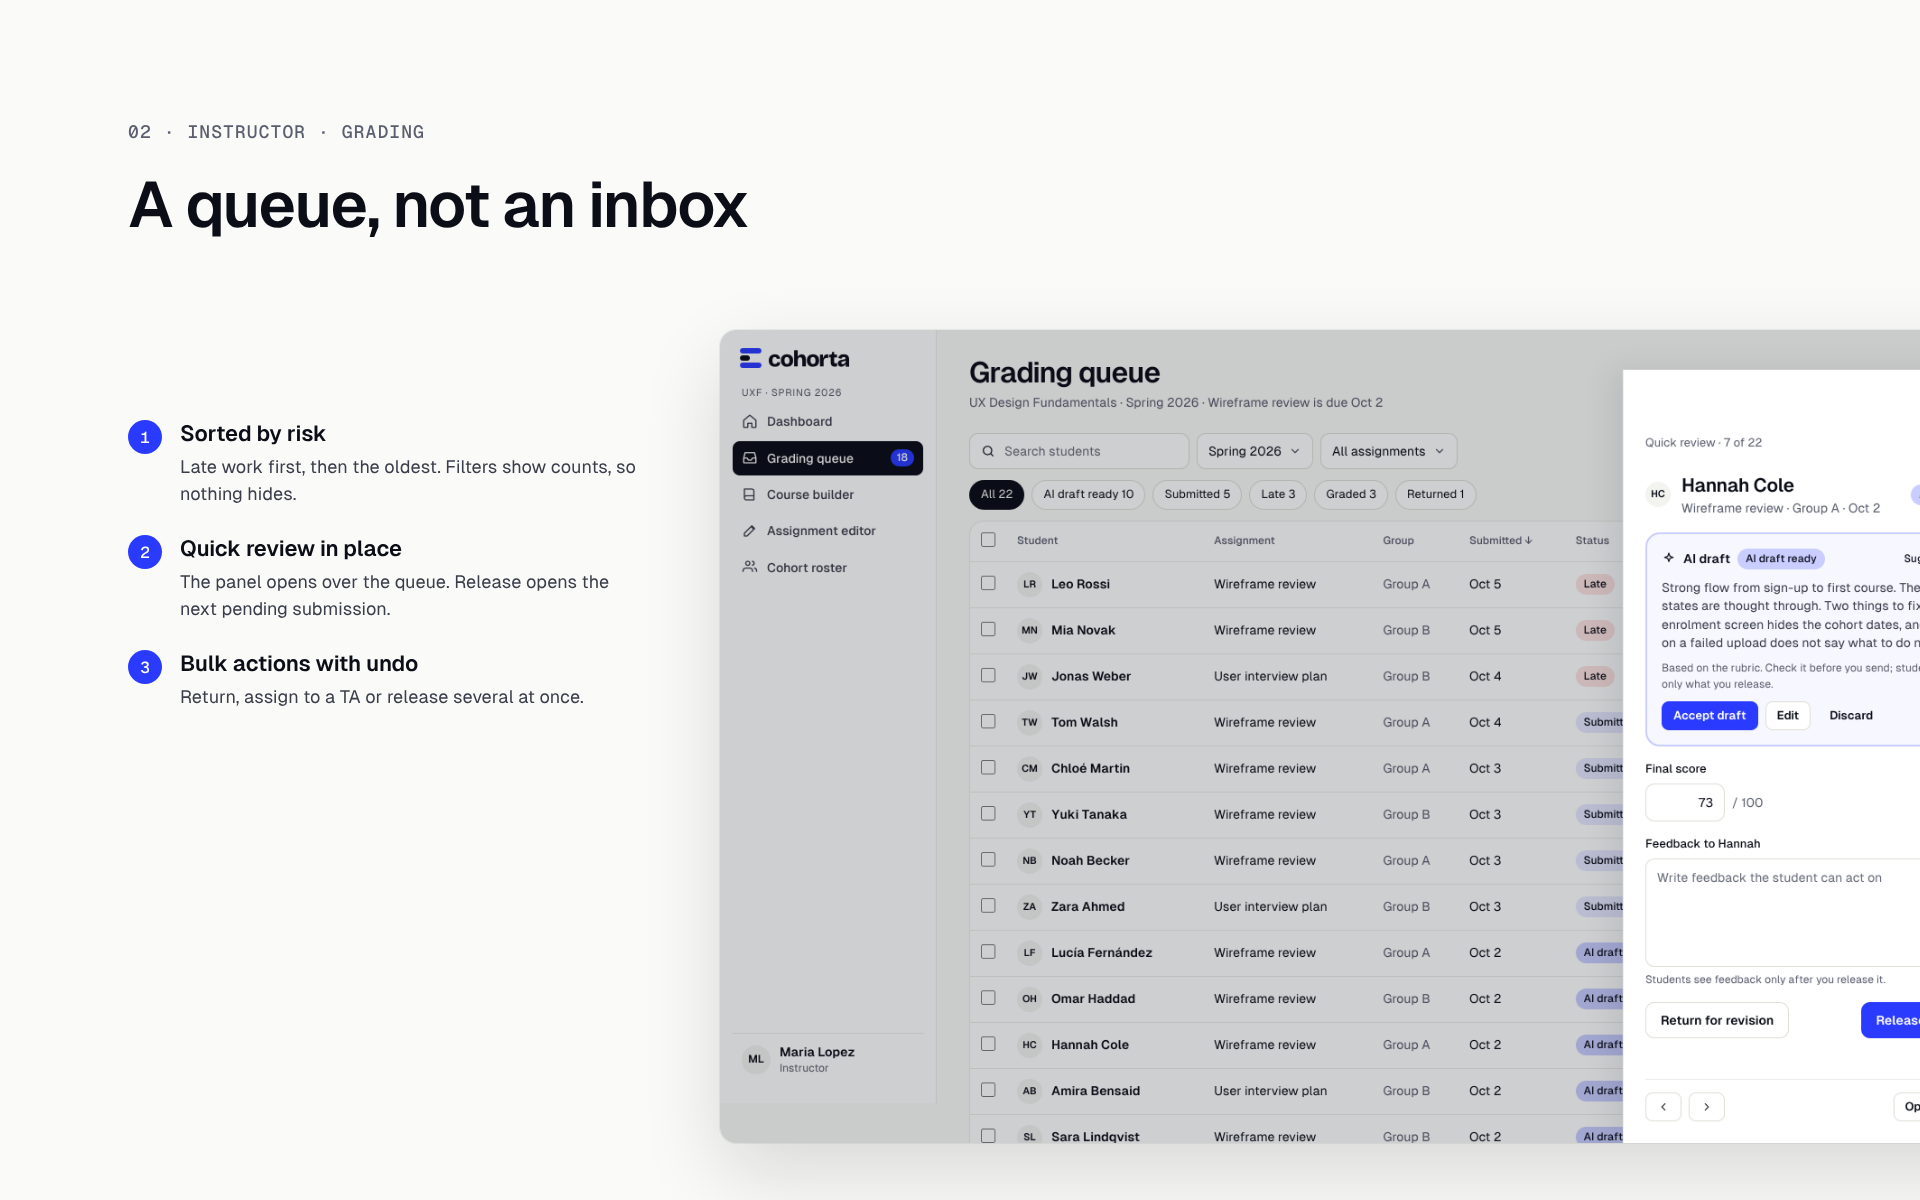
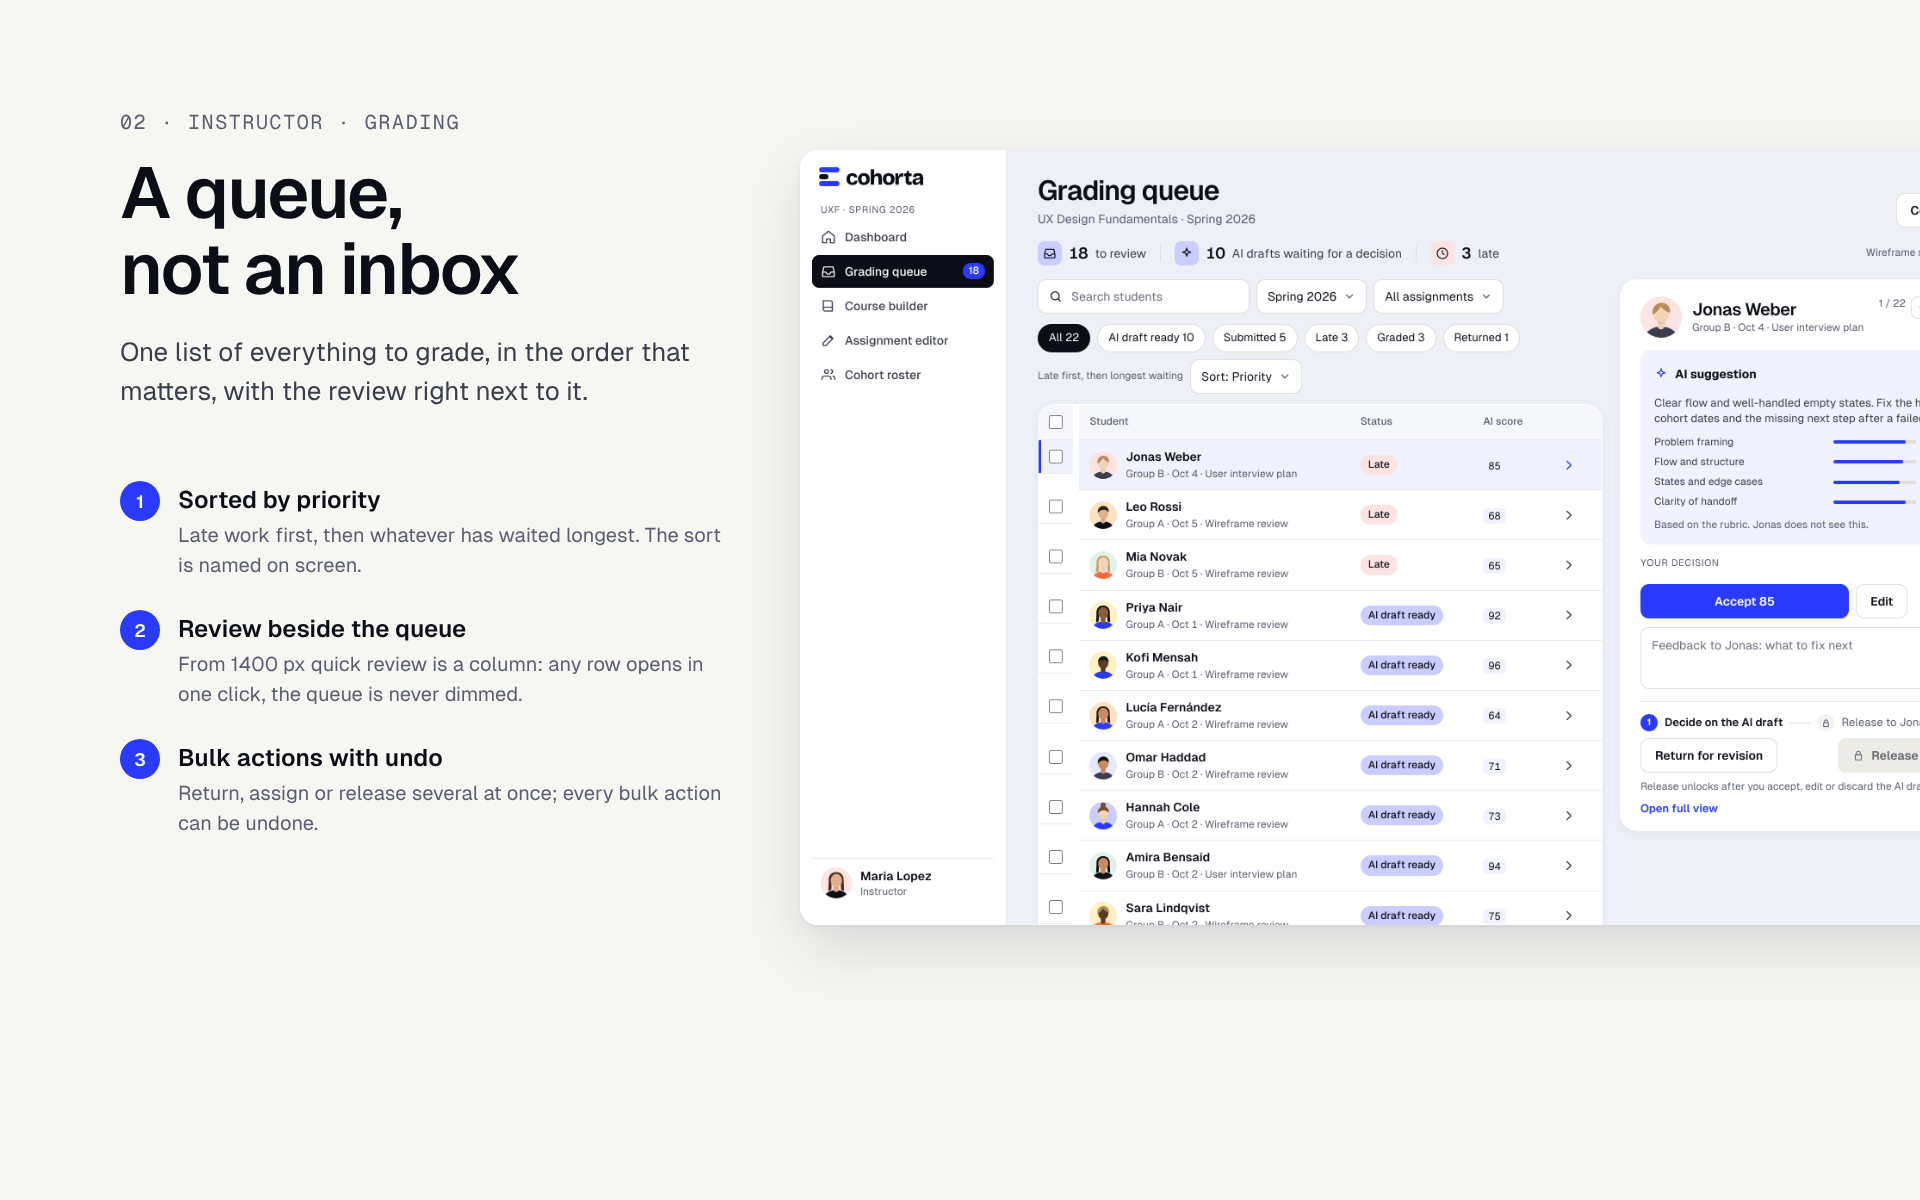
Case images: rebuilt 14 slides from the current demo (white sidebar, priority queue, release states, TA view, editor and map)
Claude-Session: https://claude.ai/code/session_013EWPuoJWmvudSPMU5kALcY

diff --git a/README.md b/README.md
@@ -19,7 +19,7 @@ The concepts and workflows represent design hypotheses, not findings from primar
 
 ![Cohorta cover](case/cohorta-01.png)
 
-All 12 case images are in [`/case`](case).
+All 14 case images are in [`/case`](case).
 
 ## The problem
 
